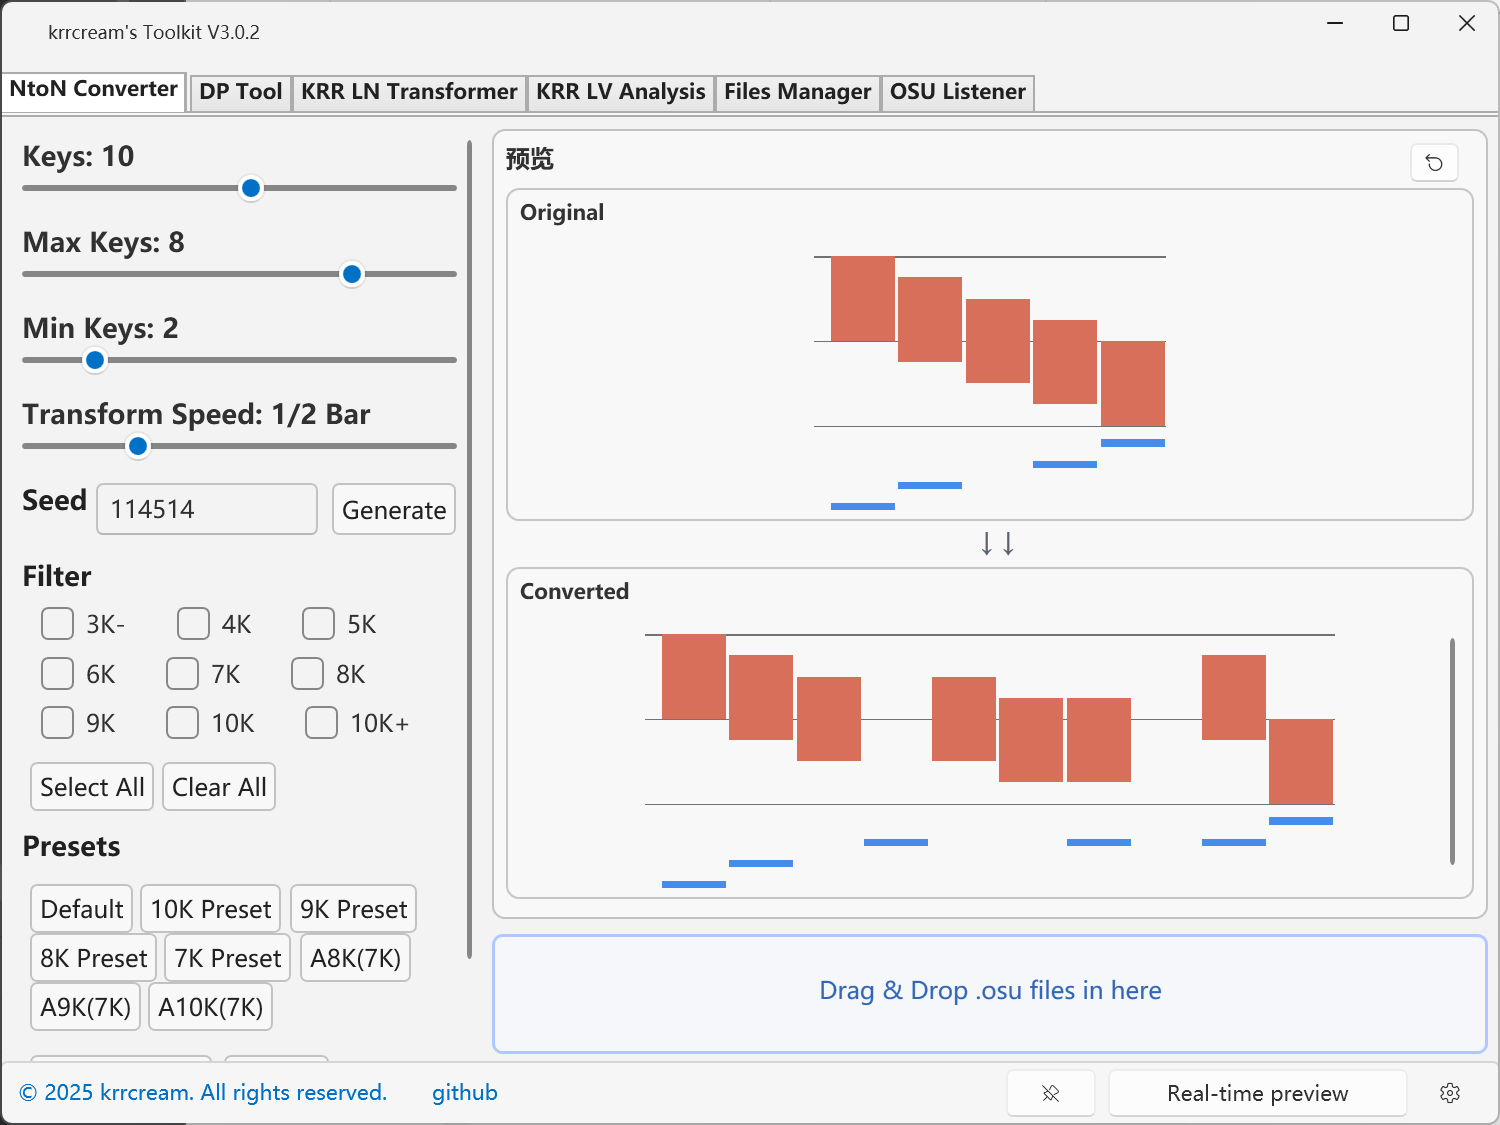
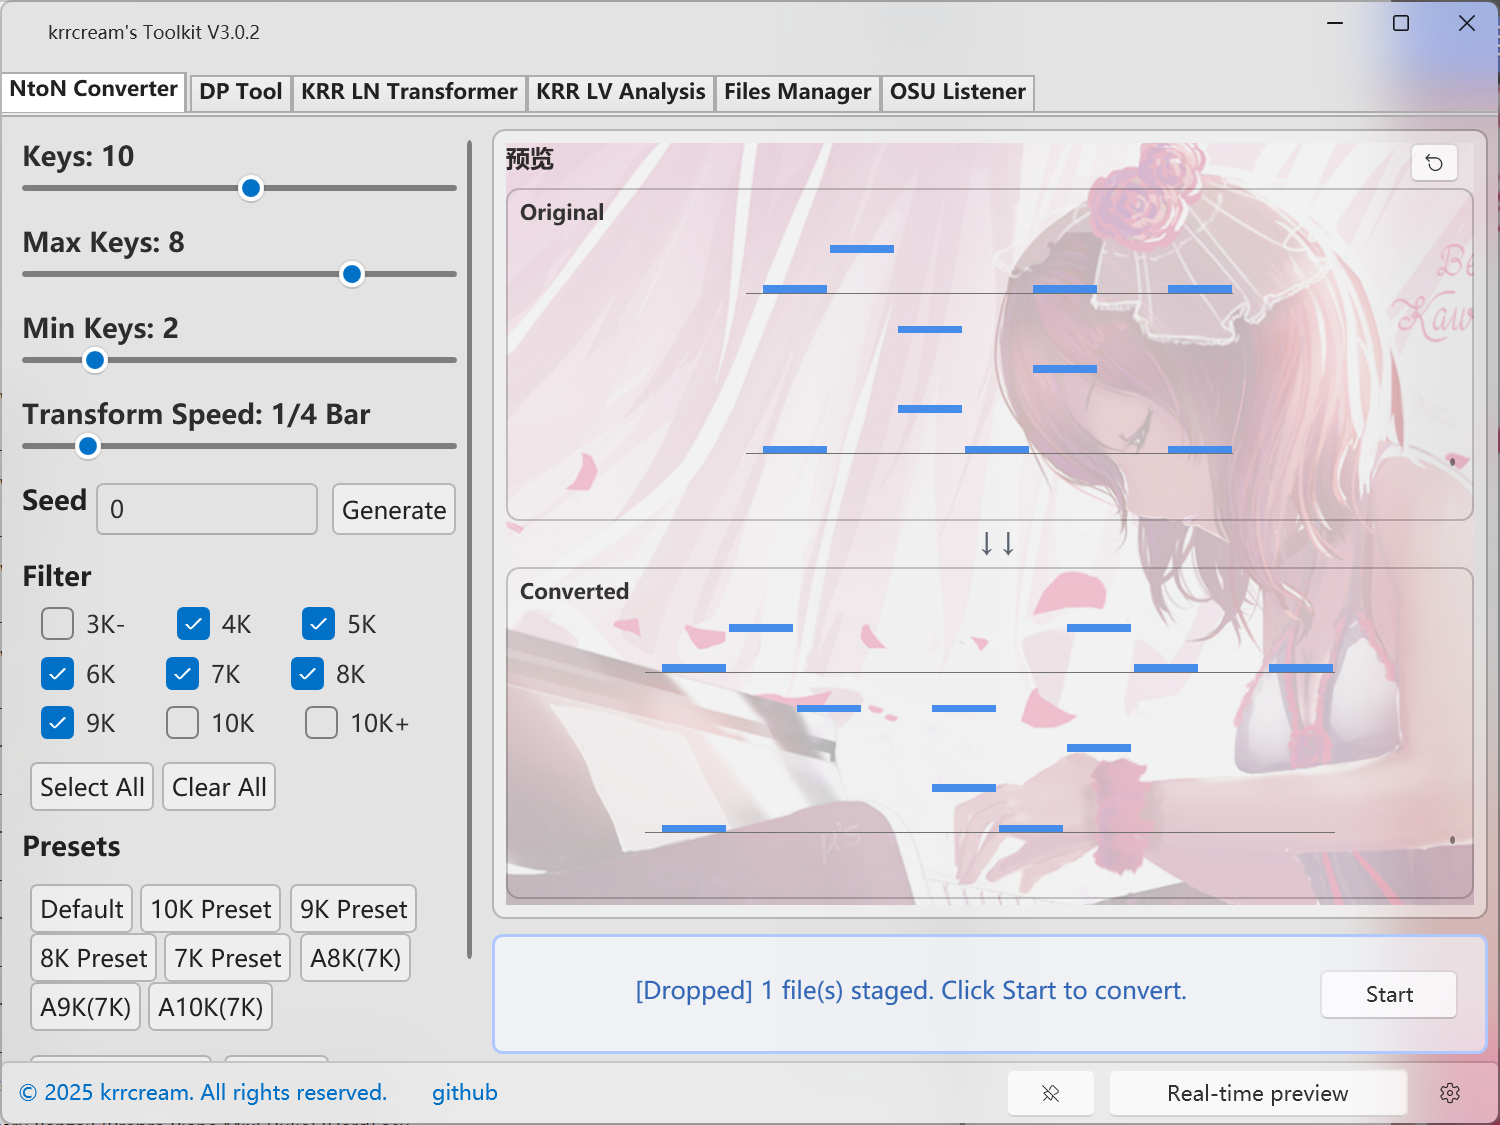
V3.0.3

diff --git a/Tools/N2NC/N2NC.cs b/Tools/N2NC/N2NC.cs
@@ -102,8 +102,18 @@ namespace krrTools.Tools.N2NC
                     return;
                 }
             }
-            var random = options.Seed.HasValue ? new Random(options.Seed.Value) : new Random();
-            var (matrix, timeAxisTemp) = beatmap.getMTXandTimeAxis();
+            Random random = options.Seed.HasValue ? new Random(options.Seed.Value) : new Random();
+            Matrix matrix;
+            List<int> timeAxisTemp;
+            if ((int)options.TargetKeys.Value - (int)beatmap.DifficultySection.CircleSize >= 0)
+            {
+                (matrix, timeAxisTemp) = beatmap.getMTXandTimeAxis();
+            }
+            else
+            {
+                (matrix, timeAxisTemp) = beatmap.getExpandHoldBodyMTXandTimeAxis();
+            }
+            
             var timeAxis = CollectionsMarshal.AsSpan(timeAxisTemp);
             
             var processedMatrix = ProcessMatrix(matrix, timeAxis, beatmap, options, random);
@@ -533,9 +543,7 @@ namespace krrTools.Tools.N2NC
 
             // 创建新矩阵，初始化为-1（空）
             var newMatrix = new Matrix(rows, targetCols);
-            for (var i = 0; i < rows; i++)
-            for (var j = 0; j < targetCols; j++)
-                newMatrix[i, j] = -1;
+            var originColumnMap = new Matrix(rows, targetCols);
 
             // 按时间段处理
             var regionStart = 0;
@@ -552,7 +560,7 @@ namespace krrTools.Tools.N2NC
                     if (isLastRow && !isRegionEnd) regionEnd = rows - 1;
 
                     // 处理当前区域
-                    ProcessRegion(orgMTX, newMatrix, timeAxis, regionStart, regionEnd, targetCols, beatLengthAxis, random);
+                    ProcessRegion(orgMTX, newMatrix, originColumnMap, timeAxis, regionStart, regionEnd, targetCols, beatLengthAxis, random);
 
                     // 更新下一个区域的起始点
                     regionStart = regionEnd;
@@ -561,7 +569,7 @@ namespace krrTools.Tools.N2NC
 
             // 处理可能剩余的行（如果最后一段不足一个完整区域）
             if (regionStart < rows - 1)
-                ProcessRegion(orgMTX, newMatrix, timeAxis, regionStart, rows - 1, targetCols, beatLengthAxis, random);
+                ProcessRegion(orgMTX, newMatrix, originColumnMap, timeAxis, regionStart, rows - 1, targetCols, beatLengthAxis, random);
 
             // 处理空行
             ProcessEmptyRows(orgMTX, newMatrix, timeAxis, beatLengthAxis, random);
@@ -569,7 +577,7 @@ namespace krrTools.Tools.N2NC
             return newMatrix;
         }
 
-        private void ProcessRegion(Matrix orgMTX, Matrix newMatrix, Span<int> timeAxis,
+        private void ProcessRegion(Matrix orgMTX, Matrix newMatrix,Matrix originColumnMap ,Span<int> timeAxis,
             int regionStart, int regionEnd, int targetCols, Span<double> beatLengthAxis, Random random)
         {
             var originalCols = orgMTX.Cols;
@@ -601,9 +609,10 @@ namespace krrTools.Tools.N2NC
                         if (newCol >= 0) // 该列未被移除
                             // 检查目标位置是否可用（避免冲突）
                     
-                            if (IsPositionAvailable(newMatrix, row, newCol, timeAxis, beatLengthAxis[row]))
+                            if (IsPositionAvailable(newMatrix, originColumnMap, col ,row, newCol, timeAxis, beatLengthAxis[row]))
                             {
                                 newMatrix[row, newCol] = newValue;
+                                originColumnMap[row, newCol] = col;
 
                                 // 如果是长条头部，复制整个长条
                                 CopyLongNoteBody(orgMTX, newMatrix, row, col, newCol, rows);
@@ -614,8 +623,7 @@ namespace krrTools.Tools.N2NC
             // 处理长条延续部分
             for (var row = regionStart; row <= regionEnd; row++) HandleLongNoteExtensions(newMatrix, row, targetCols);
 
-            // 应用约束条件：确保每行至少有一个note
-            // 应用约束条件：确保每行至少有一个note
+            // 应用约束条件：尽量确保每行至少有一个note，但存在无法添加note的可能
             ApplyMinimumNotesConstraint(newMatrix, orgMTX, regionStart, regionEnd, targetCols, timeAxis, beatLengthAxis,
                 random);
         }
@@ -753,21 +761,21 @@ namespace krrTools.Tools.N2NC
             return mapping;
         }
 
-        private bool IsPositionAvailable(Matrix matrix, int row, int col, Span<int> timeAxis, double beatLength)
+        private bool IsPositionAvailable(Matrix matrix, Matrix originColumnMap, int oldcol, int row, int col, Span<int> timeAxis, double beatLength)
         {
             if (matrix[row, col] != -1)
                 return false;
 
             // 检查前面几行
             for (var r = Math.Max(0, row - 3); r < row; r++)
-                if (timeAxis[row] - timeAxis[r] <= beatLength / 14 + 10)
+                if (timeAxis[row] - timeAxis[r] <= beatLength / 2.5 + 10 && originColumnMap[r, col] != oldcol)
                     if (matrix[r, col] >= 0 || matrix[r, col] == -7)
                         return false;
 
             // 检查后面几行
             var rows = matrix.Rows;
             for (var r = row + 1; r <= Math.Min(rows - 1, row + 3); r++)
-                if (timeAxis[r] - timeAxis[row] <= beatLength / 14 + 10)
+                if (timeAxis[r] - timeAxis[row] <= beatLength / 2.5 + 10 && originColumnMap[r, col] != oldcol)
                     if (matrix[r, col] >= 0 || matrix[r, col] == -7)
                         return false;
 
@@ -871,7 +879,7 @@ namespace krrTools.Tools.N2NC
         private bool IsHoldNoteTailTooClose(Matrix newMatrix, Matrix orgMTX, Span<int> timeAxis,
             int row, int orgCol, int targetCol, double beatLength)
         {
-            var minTimeDistance = beatLength / 14 - 10; // 注意这里是-10
+            var minTimeDistance = beatLength / 2.5 - 10; // 注意这里是-10
 
             // 检查原始矩阵中该位置是否为长条头部
             var rows = orgMTX.Rows;
@@ -1007,13 +1015,13 @@ namespace krrTools.Tools.N2NC
             // 检查前面几行
             var rows = matrix.Rows;
             for (var r = Math.Max(0, row - 3); r < row; r++)
-                if (timeAxis[row] - timeAxis[r] <= beatLength / 14 + 10)
+                if (timeAxis[row] - timeAxis[r] <= beatLength / 2.5 + 10)
                     if (matrix[r, col] >= 0 || matrix[r, col] == -7)
                         return false;
 
             // 检查后面几行
             for (var r = row + 1; r <= Math.Min(rows - 1, row + 3); r++)
-                if (timeAxis[r] - timeAxis[row] <= beatLength / 14 + 10)
+                if (timeAxis[r] - timeAxis[row] <= beatLength / 2.5 + 10)
                     if (matrix[r, col] >= 0 || matrix[r, col] == -7)
                         return false;
 

diff --git a/Tools/N2NC/PresetBottom.cs b/Tools/N2NC/PresetBottom.cs
@@ -22,7 +22,7 @@ namespace krrTools.Tools.N2NC
                     opts.MinKeys.Value = 2;
                     opts.TransformSpeed.Value = 2;
                     opts.Seed = 114514;
-                    opts.SelectedKeyFlags = KeySelectionFlags.None;
+                    opts.SelectedKeyFlags = (KeySelectionFlags)0b0011111111;
                 })),
                 [PresetKind.TenK] = ("10K Preset", CreatePreset(opts => {
                     opts.TargetKeys.Value = 10;
@@ -56,30 +56,46 @@ namespace krrTools.Tools.N2NC
                     opts.Seed = 0;
                     opts.SelectedKeyFlags = (KeySelectionFlags)0b0000001110;
                 })),
-                [PresetKind.A8K7] = ("7K A8K", CreatePreset(opts => {
+                [PresetKind.A8K7] = ("A8K", CreatePreset(opts => {
                     opts.TargetKeys.Value = 8;
                     opts.MaxKeys.Value = 7;
                     opts.MinKeys.Value = 7;
                     opts.TransformSpeed.Value = 2;
                     opts.Seed = 0;
-                    opts.SelectedKeyFlags = (KeySelectionFlags)0b0000010000;
+                    opts.SelectedKeyFlags = (KeySelectionFlags)0b0000011111;
                 })),
-                [PresetKind.A9K7] = ("7K A9K", CreatePreset(opts => {
+                [PresetKind.A9K7] = ("A9K", CreatePreset(opts => {
                     opts.TargetKeys.Value = 9;
                     opts.MaxKeys.Value = 7;
                     opts.MinKeys.Value = 7;
                     opts.TransformSpeed.Value = 2;
                     opts.Seed = 0;
-                    opts.SelectedKeyFlags = (KeySelectionFlags)0b0000010000;
+                    opts.SelectedKeyFlags = (KeySelectionFlags)0b0000111111;
                 })),
-                [PresetKind.A10K7] = ("7K A10K", CreatePreset(opts => {
+                [PresetKind.A10K7] = ("A10K", CreatePreset(opts => {
                     opts.TargetKeys.Value = 10;
                     opts.MaxKeys.Value = 7;
                     opts.MinKeys.Value = 7;
                     opts.TransformSpeed.Value = 2;
                     opts.Seed = 0;
-                    opts.SelectedKeyFlags = (KeySelectionFlags)0b0000010000;
+                    opts.SelectedKeyFlags = (KeySelectionFlags)0b0001111111;
                 })),
+                [PresetKind.DT6] = ("DownTo6K", CreatePreset(opts => {
+                    opts.TargetKeys.Value = 6;
+                    opts.MaxKeys.Value = 6;
+                    opts.MinKeys.Value = 4;
+                    opts.TransformSpeed.Value = 2;
+                    opts.Seed = 0;
+                    opts.SelectedKeyFlags = (KeySelectionFlags)0b0011110000;
+                })),
+                [PresetKind.DT4] = ("DownTo4K", CreatePreset(opts => {
+                    opts.TargetKeys.Value = 4;
+                    opts.MaxKeys.Value = 4;
+                    opts.MinKeys.Value = 4;
+                    opts.TransformSpeed.Value = 2;
+                    opts.Seed = 0;
+                    opts.SelectedKeyFlags = (KeySelectionFlags)0b0011111100;
+                }))
                 
             };
 

diff --git a/Tools/KRRLNTransformer/KRRLNPresetBottom.cs b/Tools/KRRLNTransformer/KRRLNPresetBottom.cs
@@ -34,6 +34,38 @@ namespace krrTools.Tools.KRRLNTransformer
                     opts.ODValue.Value = 5;
                     opts.Seed.Value = 114514;
                 })),
+                [PresetKind.Inverse2] = ("Inverse Space=1/2", CreatePreset(opts => {
+                    opts.LengthThreshold.Value = KRRLNTransformerOptions.SAllIsLongLN;
+                    opts.ShortPercentage.Value = 100;
+                    opts.ShortLevel.Value = 0;
+                    opts.ShortLimit.Value = 10;
+                    opts.ShortRandom.Value = 0;
+                    opts.LongPercentage.Value = 100;
+                    opts.LongLevel.Value = 100;
+                    opts.LongLimit.Value = 10;
+                    opts.LongRandom.Value = 0;
+                    opts.Alignment.Value = 7;
+                    opts.LNAlignment.Value = 5;
+                    opts.ProcessOriginalIsChecked.Value = true;
+                    opts.ODValue.Value = 5;
+                    opts.Seed.Value = 114514;
+                })),
+                [PresetKind.ReleaseHard] = ("ReleaseHard", CreatePreset(opts => {
+                    opts.LengthThreshold.Value = 2;
+                    opts.ShortPercentage.Value = 50;
+                    opts.ShortLevel.Value = 8;
+                    opts.ShortLimit.Value = 10;
+                    opts.ShortRandom.Value = 0;
+                    opts.LongPercentage.Value = 100;
+                    opts.LongLevel.Value = 80;
+                    opts.LongLimit.Value = 10;
+                    opts.LongRandom.Value = 40;
+                    opts.Alignment.Value = 7;
+                    opts.LNAlignment.Value = 5;
+                    opts.ProcessOriginalIsChecked.Value = true;
+                    opts.ODValue.Value = 5;
+                    opts.Seed.Value = 114514;
+                })),
                 [PresetKind.NoteToOneHalfLN] = ("NoteToOneHalfLN", CreatePreset(opts => {
                     opts.LengthThreshold.Value = KRRLNTransformerOptions.SAllIsShortLN;
                     opts.ShortPercentage.Value = 100;

diff --git a/Core/ToolOptions.cs b/Core/ToolOptions.cs
@@ -220,12 +220,16 @@ namespace krrTools.Core
         [Description("8K Preset|8K预设")] EightK = 3,
         [Description("7K Preset|7K预设")] SevenK = 4,
         [Description("Inverse Space=1/4|反键 间隔1/4")] Inverse4 = 5,
-        [Description("Note→1/2LN|米变1/2面条")] NoteToOneHalfLN = 6,
-        [Description("Easy LN|轻面")] ShortLN1 = 7,
-        [Description("Mid LN=1/4|中面")] MidLN1 = 8,
-        [Description("Hard LN=1/4|大面")] LongLN1 = 9,
-        [Description("A10K(7K)")] A10K7 = 10,
-        [Description("A9K(7K)")] A9K7 = 11,
-        [Description("A8K(7K)")] A8K7 = 12
+        [Description("Inverse Space=1/2|反键 间隔1/2")] Inverse2 = 6,
+        [Description("Note→1/2LN|米变1/2面条")] NoteToOneHalfLN = 7,
+        [Description("Easy LN|轻面")] ShortLN1 = 8,
+        [Description("Mid LN|中面")] MidLN1 = 9,
+        [Description("Hard LN|大面")] LongLN1 = 10,
+        [Description("A10K|散至10K")] A10K7 = 11,
+        [Description("A9K|散至9K")] A9K7 = 12,
+        [Description("A8K|散至8K")] A8K7 = 13,
+        [Description("DownTo6K|降至6K")] DT6 = 14,
+        [Description("DownTo4K|降至4K")] DT4 = 15,
+        [Description("Release H|放手 难")] ReleaseHard = 17
     }
 }

diff --git a/Tools/N2NC/N2NCOptions.cs b/Tools/N2NC/N2NCOptions.cs
@@ -11,7 +11,7 @@ namespace krrTools.Tools.N2NC
     public class N2NCOptions : ToolOptionsBase
     {
         [Option(LabelKey = nameof(KeysSliderLabel), Min = 1, Max = 18, UIType = UIType.Slider, DataType = typeof(double), IsRefresher = true)]
-        public Bindable<double> TargetKeys { get; } = new Bindable<double>(10);
+        public Bindable<double> TargetKeys { get; } = new Bindable<double>(8);
 
         // 动态最大值将由ViewModel的约束管理处理
         [Option(LabelKey = nameof(N2NCMaxKeysTemplate), Min = 1, Max = 18, UIType = UIType.Slider, DataType = typeof(double), IsRefresher = true)]
@@ -56,7 +56,7 @@ namespace krrTools.Tools.N2NC
             set => SetProperty(ref _seed, value);
         }
         private int? _seed = 114514;
-        public KeySelectionFlags? SelectedKeyFlags { get; set; } = KeySelectionFlags.None;
+        public KeySelectionFlags? SelectedKeyFlags { get; set; } = (KeySelectionFlags)0b0011111111;
         
         public override void Validate()
         {

diff --git a/Localization/Strings.cs b/Localization/Strings.cs
@@ -5,7 +5,7 @@ namespace krrTools.Localization
     /// </summary>
     public static class Strings
     {
-        public const string WindowTitle = "krrcream's Toolkit V3.0.2";
+        public const string WindowTitle = "krrcream's Toolkit V3.0.3";
 
         // Metadeta
         public const string ConverterTag = "Converter";

diff --git a/Tools/N2NC/N2NCViewModel.cs b/Tools/N2NC/N2NCViewModel.cs
@@ -120,7 +120,7 @@ public class N2NCViewModel : ToolViewModelBase<N2NCOptions>, IPreviewOptionsProv
         }
     }
 
-    private KeySelectionFlags _keySelection = KeySelectionFlags.None;
+    private KeySelectionFlags _keySelection = (KeySelectionFlags)0b0011111111;
 
     private void InitializeLocalized()
     {

diff --git a/readme.md b/readme.md
@@ -4,18 +4,22 @@
   <b>A collection of tools for osumania beatmap</b>
 </p>
 
-<p align="center">
-These tools allows creating new maps by either dragging batch files into the window or pressing hotkeys directly in-game.
-</p>
-
-
-
 ## 📥 Download
 
 - [GitHub Release Page](https://github.com/krrcream/krrcream-Toolkit/releases) 🚀 *(Recommended)*
 - [Baidu Netdisk](https://pan.baidu.com/s/1VBhS-RCG402KkjoX9obQNw?from=init&pwd=kr8k) 🔗 *(Password: kr8k)*
 
 ---
+## 💡 Notable Features
+
+### 📁 Batch Processing
+Supports drag-and-drop of files or folders for batch beatmap conversion.
+
+### ⌨ In-Game Hotkey
+Supports beatmap conversion by either dragging batch files into the window or pressing hotkeys directly in-game.
+
+### 🔄 One-Click Conversion
+Converts beatmaps with default settings or choose from various built-in presets if you're unsure about parameter adjustment.
 
 ## 🛠 Tools Included
 
@@ -38,13 +42,16 @@ Automatically rates beatmaps based on KRR LV.
 
 ## 📸 Screenshots
 
+### Preset
+![img_P.png](img/7.jpg)
 ### krr AnyKeys Converter / LN Transformer / DP Tool
 ![img.png](img/1.jpg)
 ![img_1.png](img/2.jpg)
 ![img_S.png](img/3.jpg)
+### Hotkey
+![img_6.png](img/6.jpg)
 ### .osu File Manager
 ![img_2.png](img/4.jpg)
-
 ### krr LV Auto Rating
 ![img_3.png](img/5.jpg)
 ---
